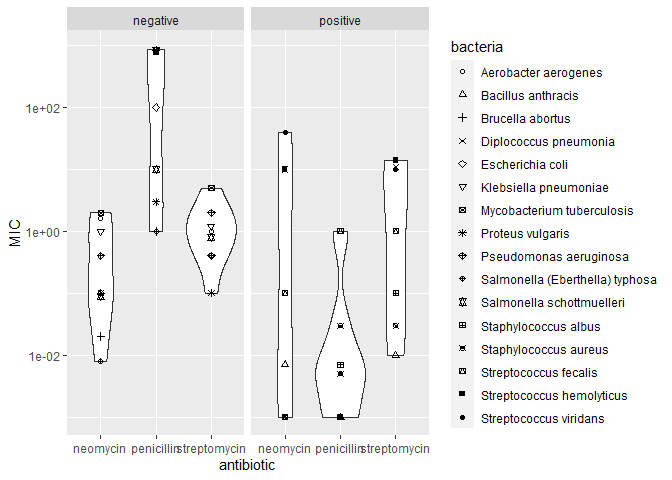
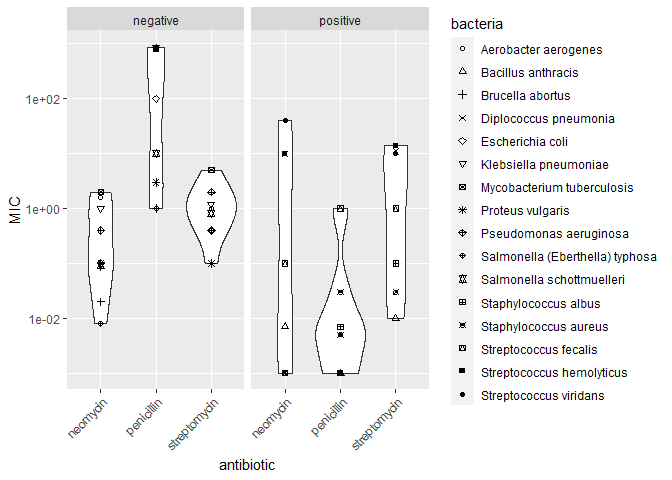
Updated Challenge 5

diff --git a/challenges/c05-antibiotics-assignment.md b/challenges/c05-antibiotics-assignment.md
@@ -188,6 +188,7 @@ df_antibiotics %>%
   geom_violin() + 
   geom_point(aes(shape = bacteria)) +
   scale_shape_manual(values = c(1,2,3,4,5,6,7,8,9,10,11,12,13,14,15,16)) +
+  theme(axis.text.x = element_text(angle = 45, vjust = 1, hjust=1)) +
   facet_wrap(~gram) +
   scale_y_continuous(trans='log10')
 ```
